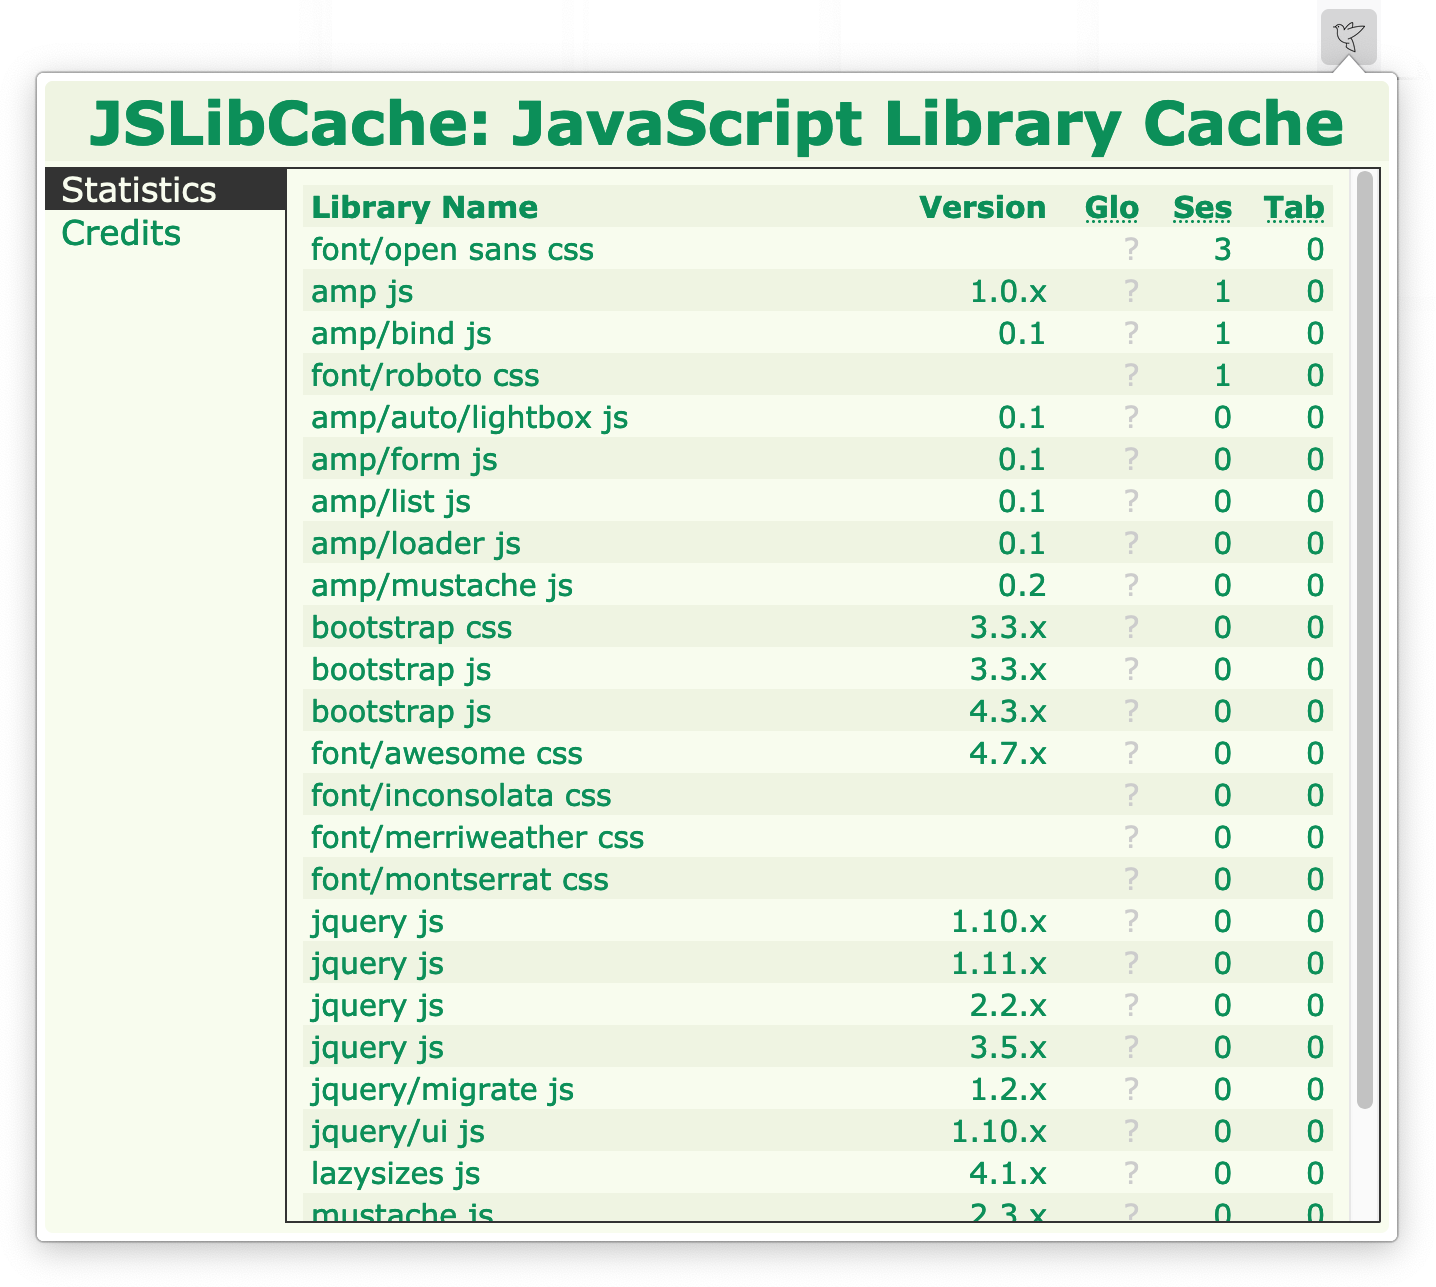
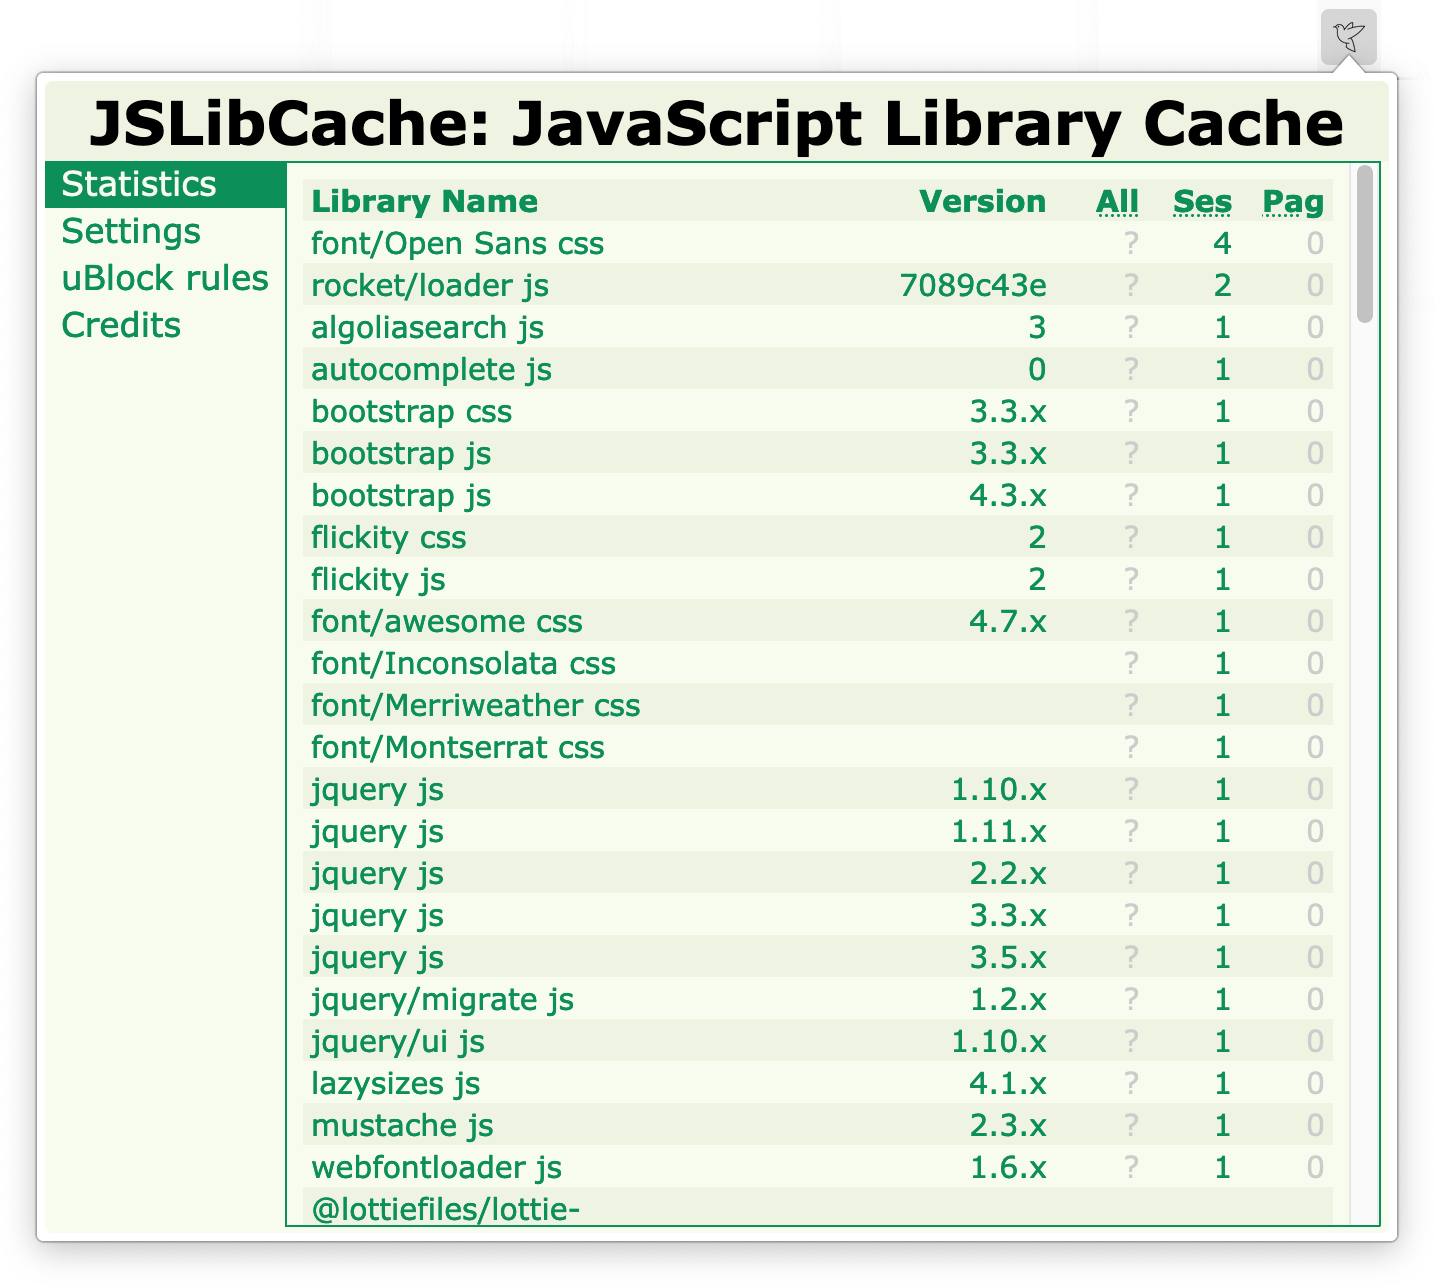
Better statistics, saved between sessions

diff --git a/background.js b/background.js
@@ -15,6 +15,7 @@ const cdnDomains = [
 //	'use.fontawesome.com/releases/v',	// 573k
 //	'cdn.bootcss.com/',			// 443k
 	'unpkg.com/',				// 390k	alias for 'cdn.jsdelivr.net/npm/
+//	'cdn.shopify.com/',			// 320k
 //	'libs.baidu.com/',			// 280k
 //	'apps.bdimg.com/libs/',			// 239k
 //	'ajax.aspnetcdn.com/ajax/',		// 203k
@@ -46,8 +47,8 @@ const cdnDomains = [
 //	"fonts.loli.net",
 ];
 const cdnDomainsRE = new RegExp('//(' + cdnDomains.map(m => m.replace(/\W/g, '\\$&')).join('|') + ')');
-let stats = {};
-let tabStats = {};
+let globStats = {}, sessStats = {}, tabStats = {};
+let globStatsSaveTime = new Date().getTime();
 let asciiDecoder = new TextDecoder('ASCII');//windows-1252 / iso-8859-1
 let settings = getDefaultSettings();
 let knownGoogleFonts = [];
@@ -68,7 +69,7 @@ async function handleGoogleFontsCss(url, req)
 {
 	let families = getFamiliesFromGoogleFontCSSURL(url);
 	let storKeys = families.map(family => 'font/' + family + ' css');
-	storKeys.forEach(storKey => { stats[storKey] = stats[storKey] ? stats[storKey] + 1 : 1});
+	storKeys.forEach(storKey => addStats(storKey));
 	addTabStats(req.tabId, storKeys);
 	let items = await browser.storage.local.get(storKeys);
 	let unknownStorKeys = storKeys.filter(storKey => !(storKey in items));
@@ -100,6 +101,27 @@ async function handleGoogleFontsCss(url, req)
 	let dataURI = 'data:text/css;charset=utf-8,' + escape('/*JSLC*/' + replaceFontsGstaticURLs(storKeys.map(storKey => items[storKey] ? items[storKey].data : newItems[storKey].data).join("\n")));
 	return { redirectUrl: dataURI };
 }
+
+function addStats(storKey, created)
+{
+	let now = new Date().getTime();
+	if (!(storKey in globStats))
+		globStats[storKey] = { created: created || now - 1, hits: 0 };
+	globStats[storKey].hits = globStats[storKey].hits + 1;
+	globStats[storKey].last = created || now;
+	if (!created)
+		sessStats[storKey] = (sessStats[storKey] || 0) + 1;
+	if (now - globStatsSaveTime > 60000)
+	{
+		browser.storage.local.set({_stats: globStats}).then(
+			//Success
+			() => console.log("%cJSLibCache: globStats stored", logStyle),
+			//Error
+			msg => console.warn("%cJSLibCache: error storing globStats: " + msg, logStyle),
+		);
+		globStatsSaveTime = now;
+	}
+}
 function addTabStats(tabId, storKeys)
 {
 	if (!tabStats[tabId])
@@ -110,13 +132,14 @@ function addTabStats(tabId, storKeys)
 	//FIXME: the keys are for the entire tab session
 	chrome.browserAction.setBadgeText({text: "" + Object.keys(tabStats[tabId]).length, tabId: tabId});
 }
+
 async function redirectRequestCDN(req)
 {
 	let url = new URL(req.url)
 	if (url.hostname == "fonts.googleapis.com")
 		return handleGoogleFontsCss(url, req);
 	let { uid: storKey, version: versi } = getUID(url);
-	stats[storKey] = stats[storKey] ? stats[storKey] + 1 : 1;
+	addStats(storKey);
 	addTabStats(req.tabId, [storKey]);
 	let item = await browser.storage.local.get(storKey);
 	let itemExists = storKey in item;
@@ -288,32 +311,50 @@ chrome.runtime.onMessage.addListener((request, sender, sendResponse) => {
 			{
 				tabId = tabsResp[0].id;
 			}
-			sendResponse({"success": true, "stats": stats, "tabStats": tabStats[tabId], "cdnDomains": cdnDomains.map(href => href.replace(/\/.*/,""))});
+			sendResponse({"success": true, "globStats": globStats, "sessStats": sessStats, "tabStats": tabStats[tabId], "cdnDomains": cdnDomains.map(href => href.replace(/\/.*/,""))});
 		});
+		return true; //for async sendResponse
+	}
+	else if (request.action === "cleanCache")//from popup.js
+	{
+		let now = new Date().getTime();
+		let weekMs = 7 * 24 * 3600 * 1000;
+		let deletableStorKeys = Object.keys(globStats).filter(storKey => (now - globStats[storKey].last) / (weekMs * globStats[storKey].hits) > 1);
+		console.log(deletableStorKeys);
+		browser.storage.local.remove(deletableStorKeys).then(
+			//Success
+			() => {
+				console.log("%cJSLibCache: browser.storage.local cleaned", logStyle);
+				deletableStorKeys.forEach(storKey => { delete globStats[storKey]; });
+				sendResponse({"success": true});
+			},
+			//Error
+			msg => {
+				console.warn("%cJSLibCache: error cleaning browser.storage.local: " + msg, logStyle);
+				sendResponse({"success": false});
+			}
+		);
 		return true; //for async sendResponse
 	}
 	else if (request.action === "clearCache")//from popup.js
 	{
-		//FIXME
 		browser.storage.local.clear().then(
 			//Success
 			() => {
 				console.log("%cJSLibCache: browser.storage.local cleared", logStyle);
-				stats = {};
+				globStats = {};
+				sessStats = {};
 				sendResponse({"success": true});
 			},
 			//Error
-			msg => console.warn("%cJSLibCache: error clearing browser.storage.local: " + msg, logStyle),
+			msg => {
+				console.warn("%cJSLibCache: error clearing browser.storage.local: " + msg, logStyle);
+				sendResponse({"success": false});
+			}
 		);
-		return true;
+		return true; //for async sendResponse
 	}
 });
-/* not supported by Fx
-browser.runtime.onSuspend.addListener(() => {
-	//TODO, FIXME: save stats to storage.local
-	console.log(`%cJSLibCache: background suspended`, logStyle);
-});
-*/
 
 
 // init
@@ -340,7 +381,12 @@ chrome.webNavigation.onBeforeNavigate.addListener(onBeforeNavigate);
 browser.storage.local.get(null).then(stor => {
 	let size = Math.round(sizeOf(stor) / 1024) + 'kB';
 	console.log("%cJSLibCache: cache has " + Object.keys(stor).length + " files, total size is " + size, logStyle);
-	Object.keys(stor).forEach(storKey => { stats[storKey] = 0; });
+	//Object.keys(stor).forEach(storKey => { sessStats[storKey] = 0; });
+	globStats = stor._stats||{};
+	Object.keys(stor).forEach(storKey => {
+		if (!(storKey in globStats) && stor[storKey].created)
+			addStats(storKey, stor[storKey].created);
+	});
 });
 
 }

diff --git a/popup.js b/popup.js
@@ -15,6 +15,17 @@ function onSettingChange(evt)
 	);
 
 }
+function onCleancacheButtonClick(evt)
+{
+	let btn = evt.target;
+	chrome.runtime.sendMessage({'action': 'cleanCache' }, result => {
+		if (result && result.success)
+		{
+			//FIXME: update first tab (stats) contents
+			btn.textContent += " ✅";
+		}
+	});
+}
 function onClearcacheButtonClick(evt)
 {
 	let btn = evt.target;
@@ -53,12 +64,12 @@ function init()
 		chrome.runtime.sendMessage({'action': 'getStats' }, result => {
 			if (result)
 			{
-				if (result.stats)
+				if (result.globStats) //created, hits, last
 				{
 					let tabStats = result.tabStats||{};
 					let frag = document.createDocumentFragment();
-					let keys = Object.keys(result.stats);
-					keys.sort((a, b) => result.stats[a] == result.stats[b] ? a.localeCompare(b) : result.stats[b] - result.stats[a]);
+					let keys = Object.keys(result.globStats);
+					keys.sort((a, b) => result.globStats[a].hits == result.globStats[b].hits ? a.localeCompare(b) : result.globStats[b].hits - result.globStats[a].hits);
 					for (let storKey of keys)
 					{
 						//<tr><td>jquery js</th><th>1.10.x</td><th>?</th><th>2</th><th>0</th></tr>
@@ -77,8 +88,8 @@ function init()
 						let th4 = document.createElement("th");
 						td.appendChild(document.createTextNode(name));
 						th1.appendChild(document.createTextNode(version));
-						//th2.appendChild(document.createTextNode("?"));
-						th3.appendChild(document.createTextNode(result.stats[storKey] || ""));
+						th2.appendChild(document.createTextNode(result.globStats[storKey].hits || ""));
+						th3.appendChild(document.createTextNode(result.sessStats[storKey] || ""));
 						th4.appendChild(document.createTextNode(tabStats[storKey] || ""));
 						tr.appendChild(td);
 						tr.appendChild(th1);
@@ -96,6 +107,7 @@ function init()
 			}
 		});
 		document.querySelector('form#settings').addEventListener("change", onSettingChange);
+		document.querySelector('button#cleancache').addEventListener("click", onCleancacheButtonClick);
 		document.querySelector('button#clearcache').addEventListener("click", onClearcacheButtonClick);
 		document.querySelector('#version').textContent = chrome.runtime.getManifest().version;
 	}

diff --git a/popup.html b/popup.html
@@ -45,8 +45,10 @@
 							<label><span>Block unknown Google fonts</span><input type="checkbox" id="blockUnknownGoogleFonts"/></label>
 							<h3>Allow header modification (uncheck this if you have problems with uBlock / AdBock / uMatrix modification of CSP headers)</h3>
 							<label><span>Allow header modification</span><input type="checkbox" id="allowModifyHeaders"/></label>
+							<h3>Cleanup old and unused cache entries</h3>
+							<div><span>Cleanup cache</span><button type="button" id="cleancache">Cleanup Cache</button></div>
 							<h3>Clear all of the locally cached Javascript libraries, CSS and Fonts and reset Statistics</h3>
-							<div><span>Clear cache</span><button type="button" id="clearcache">Clear Cache</button></div>
+							<div><span>Delete all from cache</span><button type="button" id="clearcache">Purge Cache</button></div>
 						</form>
 					</div>
 				</div>

diff --git a/popup.css b/popup.css
@@ -36,7 +36,6 @@ td:first-child {
 }
 th { font-weight: normal; }
 tbody>tr>th:empty::after { content: '0'; color: var(--grey); }
-tbody>tr>th:nth-child(3)::after { content: '?'; }
 th[title] { text-decoration: underline dotted; }
 thead>tr>td,thead>tr>th { font-weight: bold; }
 
